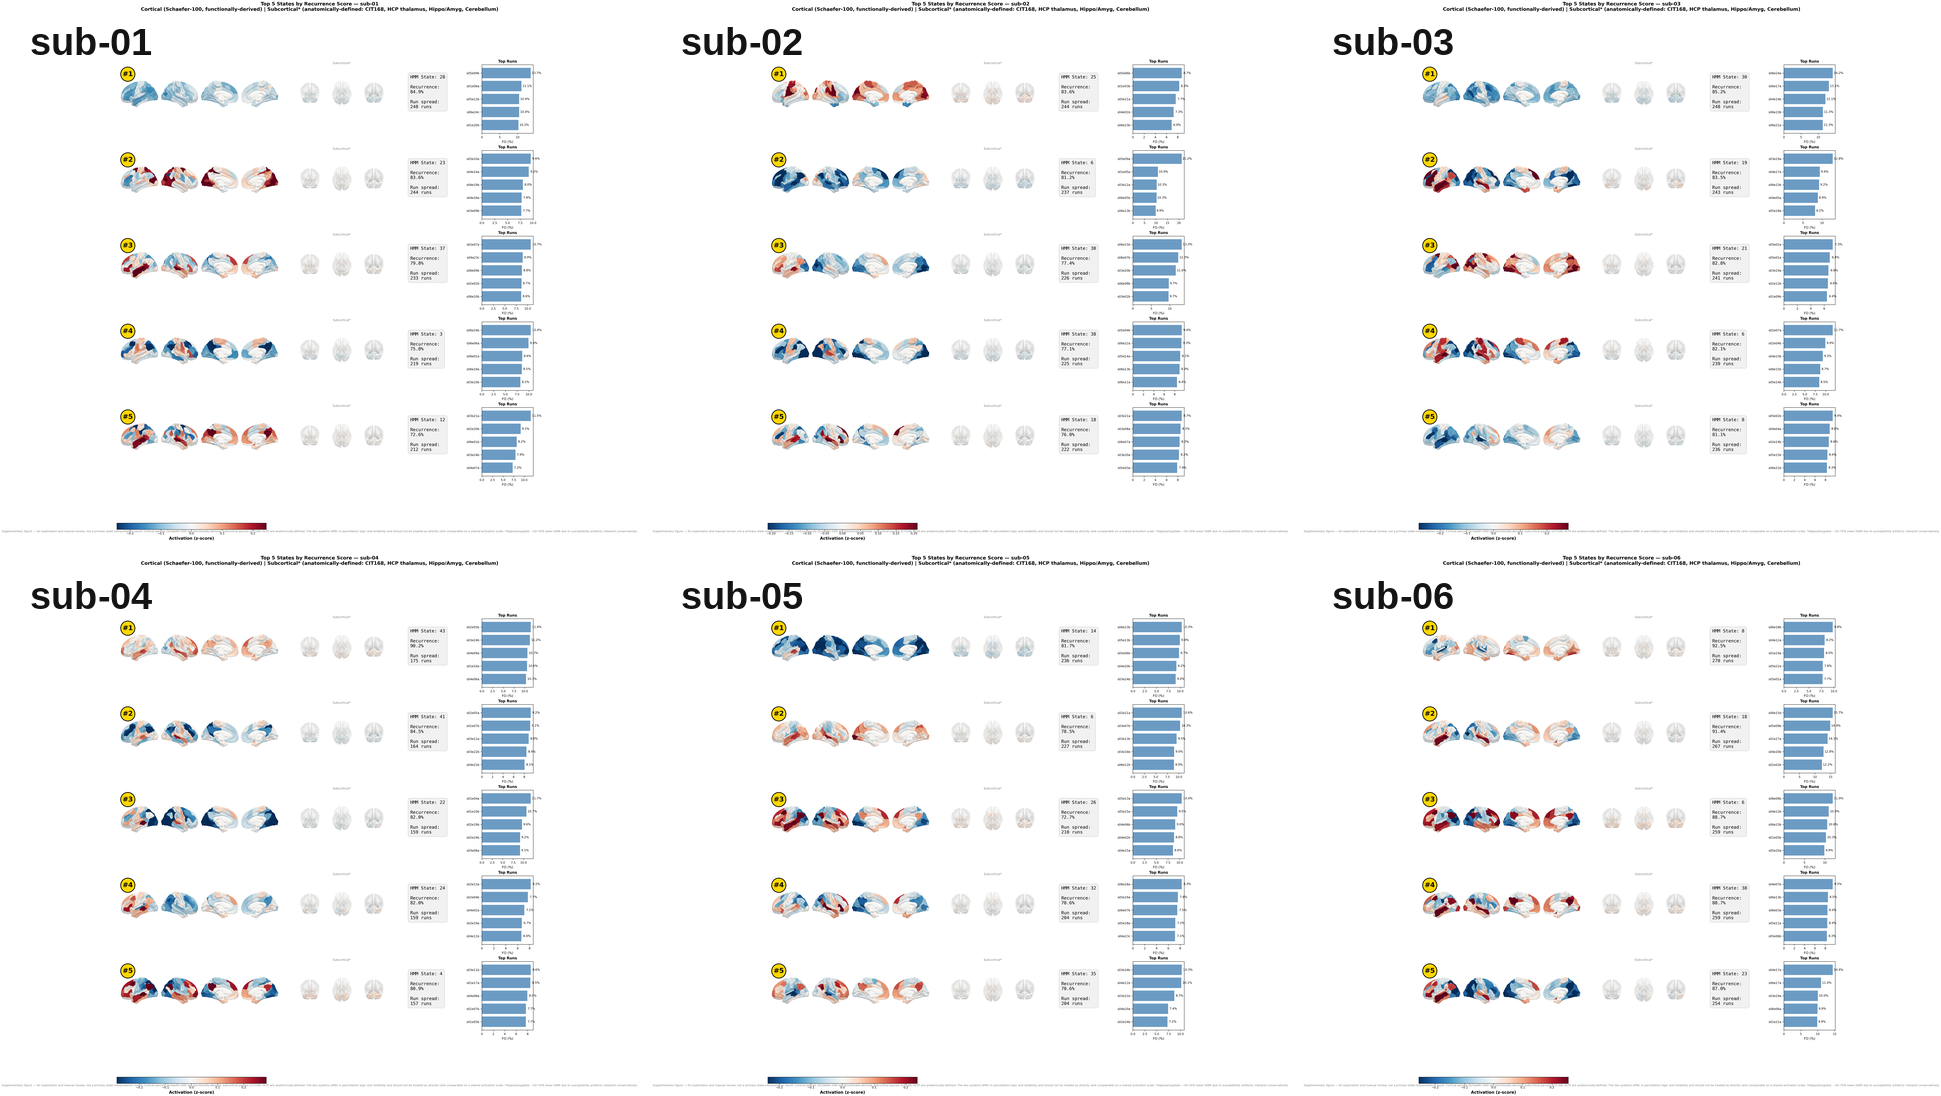
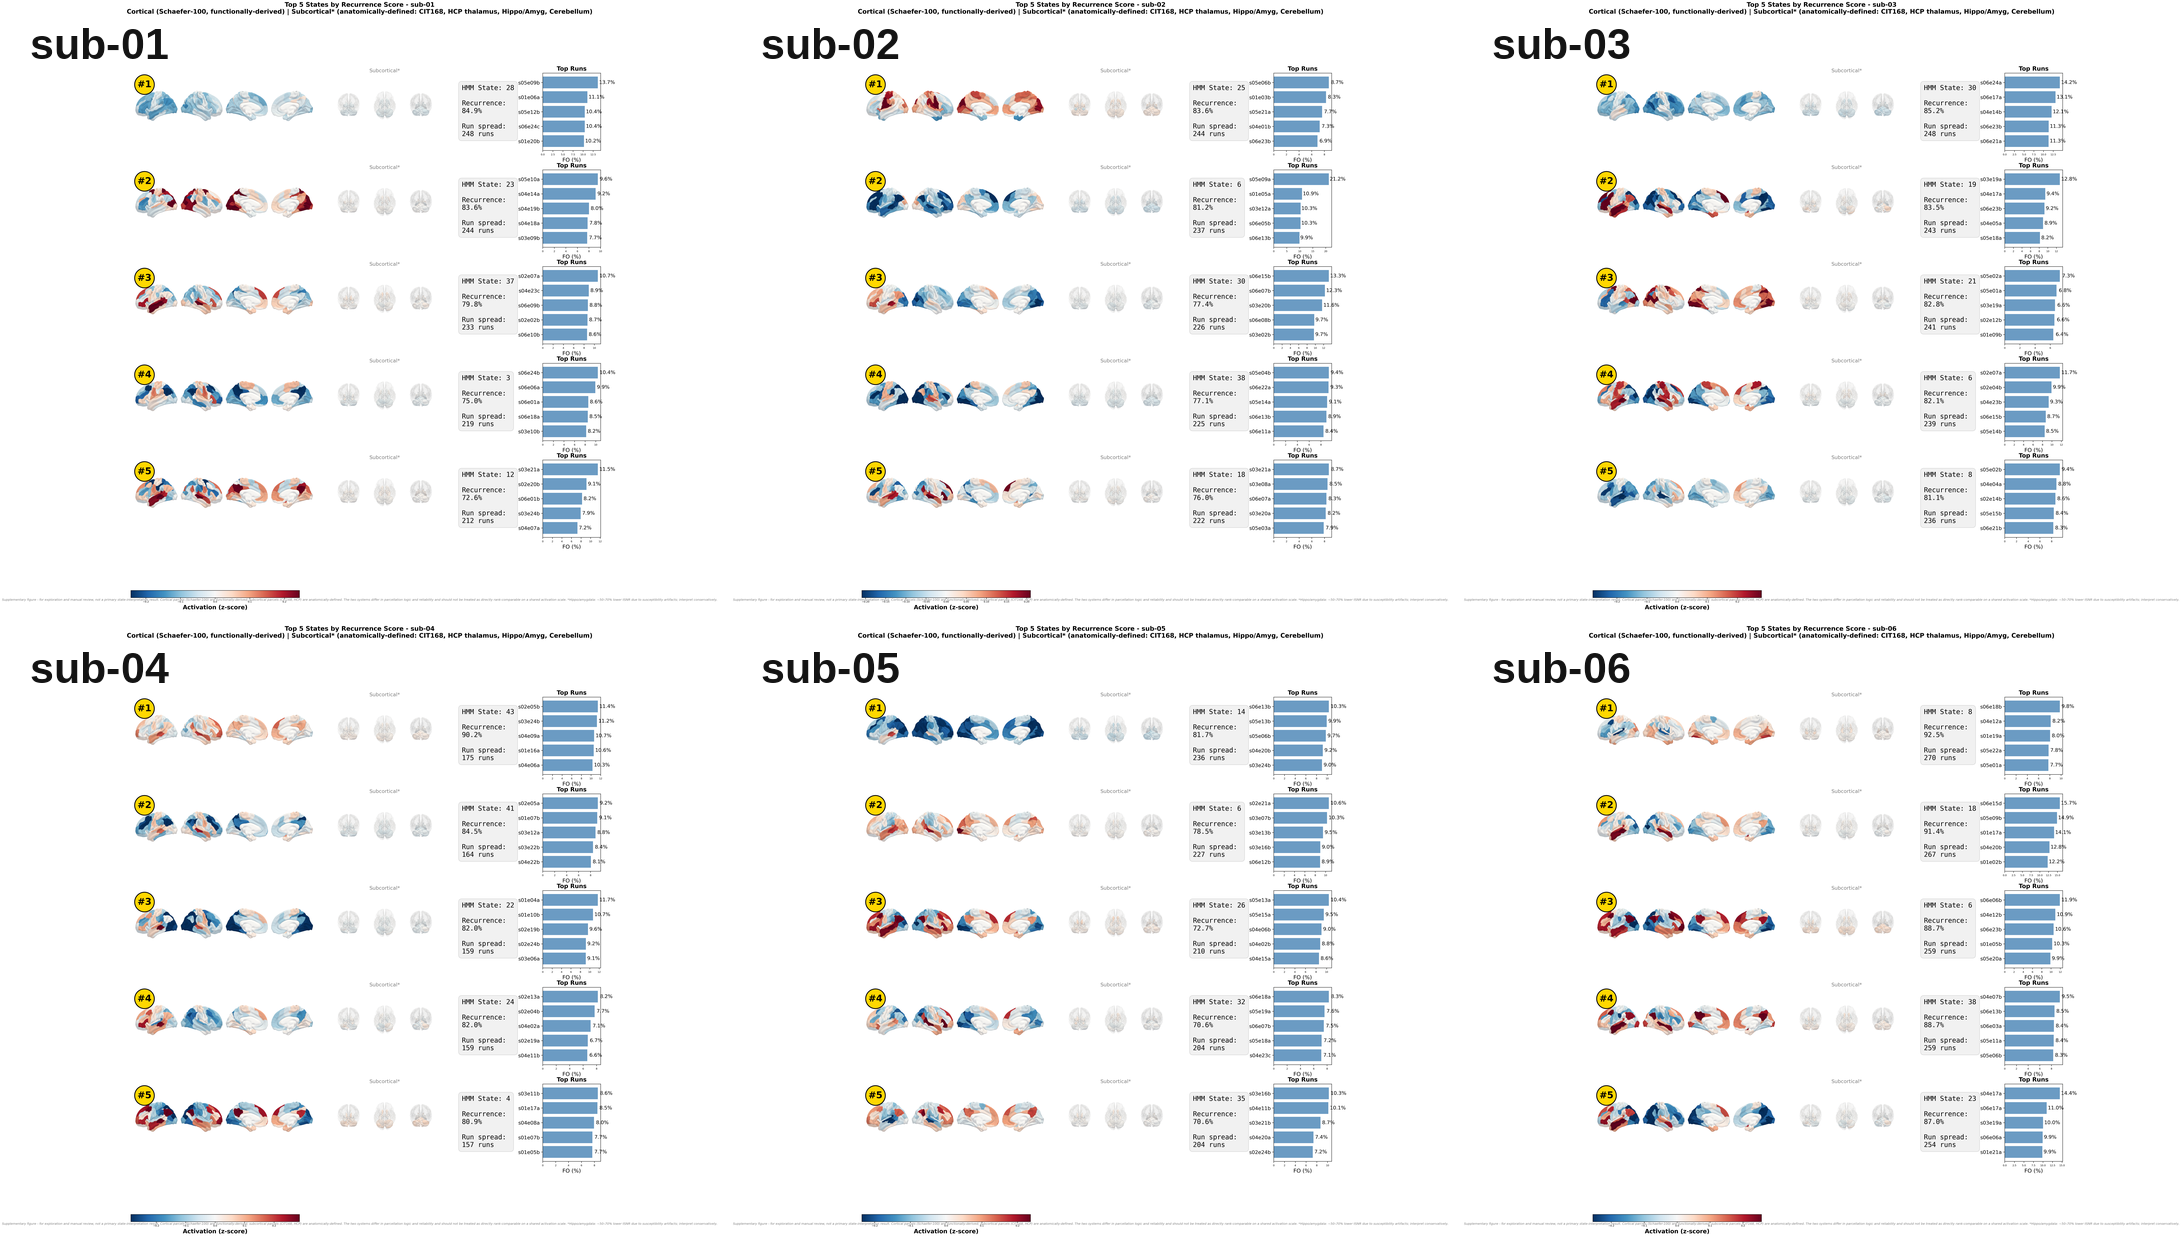
docs(supp): re-render S1 with larger in-panel fonts (05b font bump, private-venv render)
Bump all small in-panel fontsizes in create_multipanel_figure: subcortical title
8→12, metrics text 12→16, bar yticks 8→12, xlabel 9→13, Top Runs title 10→14,
bar annotations 8→12, state rank badge 18→22, suptitle 13→15, colorbar label
11→14. Add --output_dir CLI arg to allow rendering to non-annex paths.
Re-rendered all 6 subjects via private-venv (yabplot+pyvista); montaged at
720×612 cells (677 KB, 2181×1236 px). Private repo 05b restored to committed state.

diff --git a/script/05b_visualize_recurring_states.py b/script/05b_visualize_recurring_states.py
@@ -203,7 +203,7 @@ def create_multipanel_figure(
         ax_cortical.axis("off")
         ax_cortical.text(
             0.02, 0.95, f"#{idx + 1}", transform=ax_cortical.transAxes,
-            fontsize=18, fontweight="bold", color="black",
+            fontsize=22, fontweight="bold", color="black",
             verticalalignment="top",
             bbox=dict(boxstyle="circle,pad=0.3", facecolor="gold",
                       edgecolor="black", linewidth=2),
@@ -224,7 +224,7 @@ def create_multipanel_figure(
                 fontsize=8, color="red",
             )
         ax_subcortical.axis("off")
-        ax_subcortical.set_title("Subcortical*", fontsize=8, color="gray", pad=2)
+        ax_subcortical.set_title("Subcortical*", fontsize=12, color="gray", pad=2)
 
         # --- Column 2: Metrics ---
         ax_metrics = fig.add_subplot(gs[idx, 2])
@@ -236,7 +236,7 @@ def create_multipanel_figure(
         )
         ax_metrics.text(
             0.1, 0.85, metrics_text, transform=ax_metrics.transAxes,
-            fontsize=12, verticalalignment="top", fontfamily="monospace",
+            fontsize=16, verticalalignment="top", fontfamily="monospace",
             bbox=dict(boxstyle="round,pad=0.5", facecolor="lightgray",
                       alpha=0.3, edgecolor="gray"),
         )
@@ -249,20 +249,20 @@ def create_multipanel_figure(
             y_pos = range(len(runs))
             bars = ax_runs.barh(y_pos, fo_pct, color="steelblue", alpha=0.8)
             ax_runs.set_yticks(y_pos)
-            ax_runs.set_yticklabels(runs, fontsize=8)
-            ax_runs.set_xlabel("FO (%)", fontsize=9)
-            ax_runs.set_title("Top Runs", fontsize=10, fontweight="bold")
+            ax_runs.set_yticklabels(runs, fontsize=12)
+            ax_runs.set_xlabel("FO (%)", fontsize=13)
+            ax_runs.set_title("Top Runs", fontsize=14, fontweight="bold")
             ax_runs.invert_yaxis()
             for bar, pct in zip(bars, fo_pct):
                 ax_runs.text(
                     bar.get_width() + 0.3, bar.get_y() + bar.get_height() / 2,
-                    f"{pct:.1f}%", va="center", fontsize=8,
+                    f"{pct:.1f}%", va="center", fontsize=12,
                 )
         else:
             ax_runs.text(
                 0.5, 0.5, "No run\ndata",
                 transform=ax_runs.transAxes, ha="center", va="center",
-                fontsize=10, color="gray",
+                fontsize=14, color="gray",
             )
             ax_runs.axis("off")
 
@@ -271,7 +271,7 @@ def create_multipanel_figure(
         f"Top {n_rows} States by Recurrence Score - {subject_id}\n"
         f"Cortical (Schaefer-100, functionally-derived) | "
         f"Subcortical* (anatomically-defined: CIT168, HCP thalamus, Hippo/Amyg, Cerebellum)",
-        fontsize=13, fontweight="bold", y=0.998,
+        fontsize=15, fontweight="bold", y=0.998,
     )
 
     # Shared colorbar
@@ -283,7 +283,7 @@ def create_multipanel_figure(
     )
     sm.set_array([])
     cbar = plt.colorbar(sm, cax=cax, orientation="horizontal")
-    cbar.set_label("Activation (z-score)", fontsize=11, fontweight="bold")
+    cbar.set_label("Activation (z-score)", fontsize=14, fontweight="bold")
 
     # Supplementary figure footnote.
     # Marks this as a supplementary diagnostic (not a primary interpretation figure)
@@ -565,6 +565,11 @@ def main():
         help="Variance threshold subdirectory under final/ (e.g., 0.99). "
              "Reads from final/vt{VT}/. If omitted, reads from final/ directly (legacy path).",
     )
+    parser.add_argument(
+        "--output_dir", type=str, default=None,
+        help="Override the default output directory for 05b figures. "
+             "If omitted, defaults to $SCRATCH_DIR/output/05b_recurring_states_visualization/...",
+    )
     args = parser.parse_args()
     if args.n_states < 1:
         raise ValueError(f"--n_states must be >= 1, got {args.n_states}")
@@ -597,11 +602,14 @@ def main():
         )
     state_means_file = os.path.join(hmm_dir, "state_means_parcel.npy")
 
-    output_dir = os.path.join(
-        SCRATCH_DIR, "output", "05b_recurring_states_visualization", parcellation, args.sub_id
-    )
-    if args.vt is not None:
-        output_dir = os.path.join(output_dir, f"vt{args.vt}")
+    if args.output_dir is not None:
+        output_dir = args.output_dir
+    else:
+        output_dir = os.path.join(
+            SCRATCH_DIR, "output", "05b_recurring_states_visualization", parcellation, args.sub_id
+        )
+        if args.vt is not None:
+            output_dir = os.path.join(output_dir, f"vt{args.vt}")
     Path(output_dir).mkdir(parents=True, exist_ok=True)
 
     logger.info("=" * 70)
